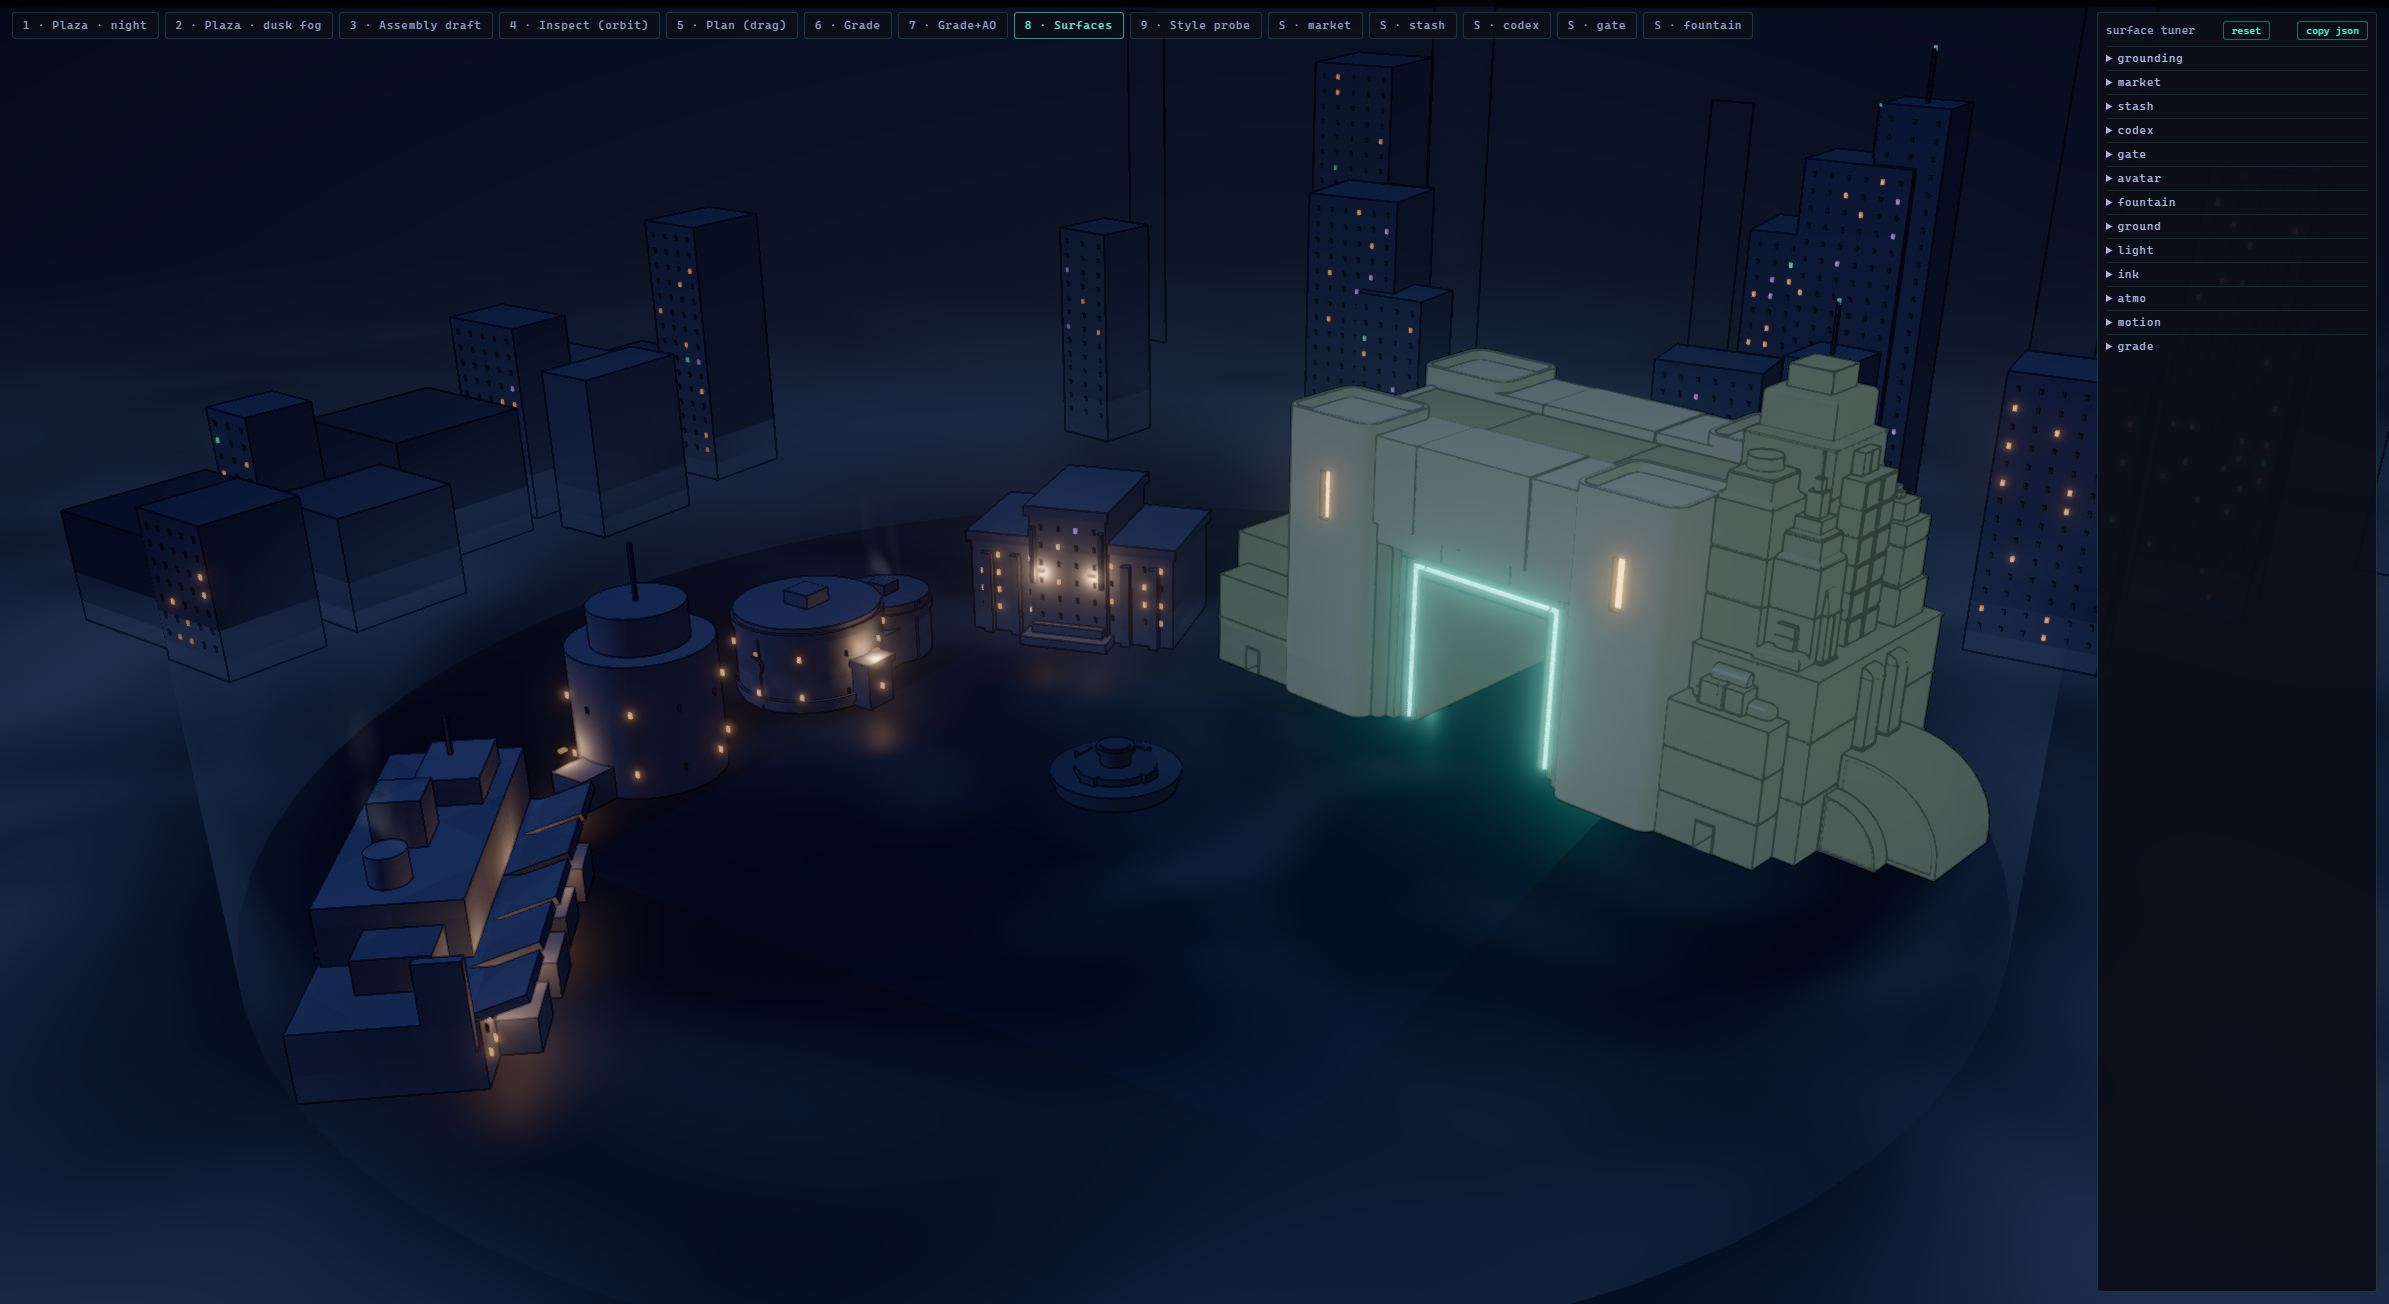
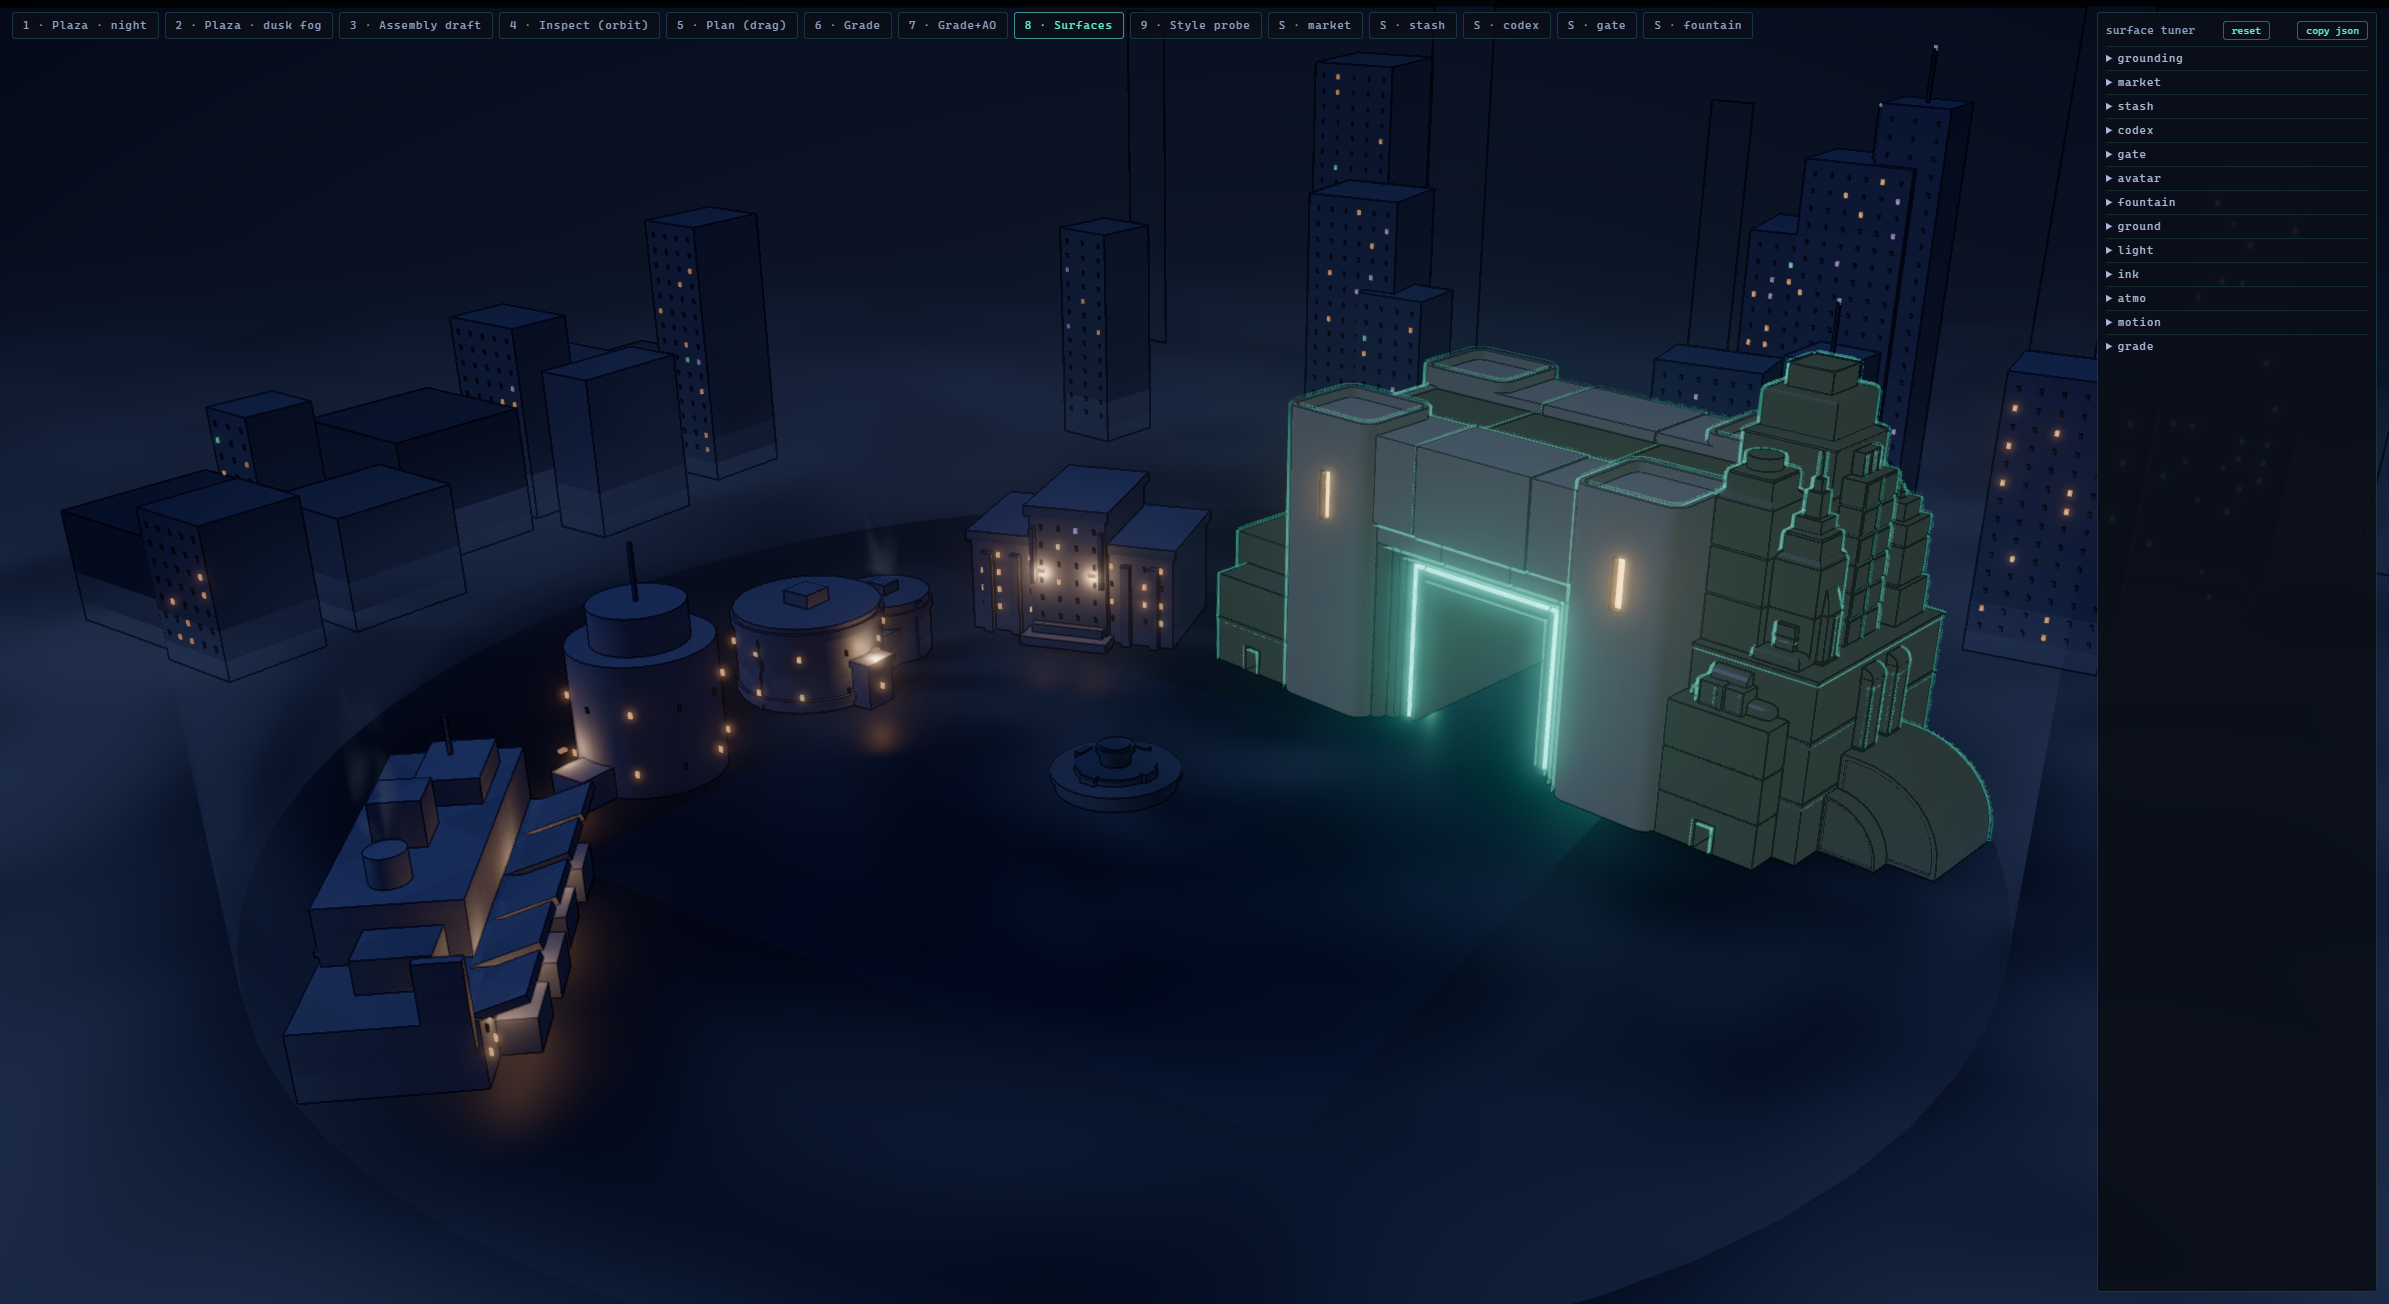
spike: rework hover into subtle lift plus inverted-hull outer glow

Changed region(s): [[0.4956, 0.2454, 0.8363, 0.6748]]

diff --git a/apps/web/lookdev/lookdev.ts b/apps/web/lookdev/lookdev.ts
@@ -17,9 +17,11 @@ import {
   mix,
   mrt,
   mx_noise_float,
+  normalLocal,
   normalView,
   output,
   pass,
+  positionLocal,
   positionWorld,
   screenSize,
   screenUV,
@@ -34,6 +36,7 @@ import gateModelURL from './models/respite-gate.glb';
 import {
   AdditiveBlending,
   AgXToneMapping,
+  BackSide,
   Box3,
   CircleGeometry,
   ExtrudeGeometry,
@@ -789,6 +792,7 @@ function renderPartSet(
 ) {
   const cos = Math.cos(ry);
   const sin = Math.sin(ry);
+  const meshes: Array<Mesh> = [];
 
   for (const part of parts) {
     const mesh = new Mesh(partGeometries[part.g], material);
@@ -800,7 +804,10 @@ function renderPartSet(
     mesh.rotation.set(part.rx ?? 0, ry, part.rz ?? 0, 'YXZ');
     mesh.scale.set(part.sx, part.sy, part.sz);
     scene.add(mesh);
+    meshes.push(mesh);
   }
+
+  return meshes;
 }
 
 function buildLineupScene(element: LineupElement): Scene {
@@ -1227,6 +1234,34 @@ const NAV_HOVER_KEYS = ['market', 'stash', 'codex', 'gate', 'avatar'];
 
 const hoverPickBoxes: Array<Mesh> = [];
 const hoverMaterials: Record<string, Array<{ emissive: Color }>> = {};
+const hoverHulls: Record<string, Group> = {};
+
+/**
+ * The hover halo: an inverted-hull shell of the hovered building, additive teal behind the
+ * silhouette, spread into an outer glow by the bloom pass. Procedural parts inflate by scaling
+ * their centered unit geometry; the authored model pushes along its normals instead, because
+ * its mesh origins sit at the model root where center-scaling would displace the shell.
+ */
+const hoverHullPartsMaterial = new MeshBasicNodeMaterial({
+  blending: AdditiveBlending,
+  depthWrite: false,
+  opacity: 0.5,
+  side: BackSide,
+  transparent: true,
+});
+
+hoverHullPartsMaterial.colorNode = color(GATE_TEAL).mul(1.6);
+
+const hoverHullModelMaterial = new MeshBasicNodeMaterial({
+  blending: AdditiveBlending,
+  depthWrite: false,
+  opacity: 0.5,
+  side: BackSide,
+  transparent: true,
+});
+
+hoverHullModelMaterial.colorNode = color(GATE_TEAL).mul(1.6);
+hoverHullModelMaterial.positionNode = positionLocal.add(normalLocal.mul(0.28));
 
 /** Live scene objects the current view registered for setter knobs; null outside tuned views. */
 const liveRefs = {
@@ -1677,6 +1712,10 @@ function buildScene(config: ProbeConfig, useParts: boolean, grounding = false, s
     delete hoverMaterials[key];
   }
 
+  for (const key of Object.keys(hoverHulls)) {
+    delete hoverHulls[key];
+  }
+
   const groundMaterial = new MeshStandardNodeMaterial({ color: new Color(config.ground), roughness: 0.6 });
   // large enough that its edges sit past full fog from any camera the spike uses
   const ground = new Mesh(new PlaneGeometry(800, 800), groundMaterial);
@@ -1821,6 +1860,23 @@ function buildScene(config: ProbeConfig, useParts: boolean, grounding = false, s
           }
         });
         hoverMaterials[placement.key] = gateHoverMaterials;
+
+        const hull = gateModel.clone(true);
+
+        hull.traverse((child) => {
+          const mesh = child as Mesh;
+
+          if (mesh.isMesh) {
+            mesh.material = hoverHullModelMaterial;
+            mesh.layers.set(1);
+          }
+        });
+        hull.scale.setScalar(GATE_MODEL_SCALE);
+        hull.position.copy(model.position);
+        hull.rotation.copy(model.rotation);
+        hull.visible = false;
+        scene.add(hull);
+        hoverHulls[placement.key] = hull;
       } else if (placement.key === 'gate') {
         // concept B1.6i's two-material story: light civic concrete against dark service metal
         const civicBase = new Color('#b9bdc6');
@@ -1844,10 +1900,26 @@ function buildScene(config: ProbeConfig, useParts: boolean, grounding = false, s
         renderGateHiFi(scene, civicMaterial, coreMaterial, trimMaterial, placement.x, placement.z, placement.ry);
         hoverMaterials[placement.key] = [civicMaterial, coreMaterial, trimMaterial];
       } else {
-        renderPartSet(scene, placement.parts, material, placement.x, placement.z, placement.ry);
+        const meshes = renderPartSet(scene, placement.parts, material, placement.x, placement.z, placement.ry);
 
         if (NAV_HOVER_KEYS.includes(placement.key)) {
           hoverMaterials[placement.key] = [material];
+
+          const hull = new Group();
+
+          for (const source of meshes) {
+            const hullMesh = new Mesh(source.geometry, hoverHullPartsMaterial);
+
+            hullMesh.position.copy(source.position);
+            hullMesh.rotation.copy(source.rotation);
+            hullMesh.scale.copy(source.scale).multiplyScalar(1.05);
+            hullMesh.layers.set(1);
+            hull.add(hullMesh);
+          }
+
+          hull.visible = false;
+          scene.add(hull);
+          hoverHulls[placement.key] = hull;
         }
       }
     }
@@ -2893,7 +2965,7 @@ async function main() {
   };
 
   // hover glow: the nav buildings are the menu — pointer-over lifts their emissive into bloom
-  const HOVER_LIFT = new Color(0.07, 0.12, 0.11);
+  const HOVER_LIFT = new Color(0.025, 0.045, 0.04);
   const hoverRestore: Array<[{ emissive: Color }, Color]> = [];
   let hoveredKey: string | null = null;
 
@@ -2905,6 +2977,10 @@ async function main() {
     hoverRestore.length = 0;
     hoveredKey = key;
     renderer.domElement.style.cursor = key ? 'pointer' : '';
+
+    for (const [hullKey, hull] of Object.entries(hoverHulls)) {
+      hull.visible = hullKey === key;
+    }
 
     if (key) {
       for (const hoverMaterial of new Set(hoverMaterials[key] ?? [])) {
